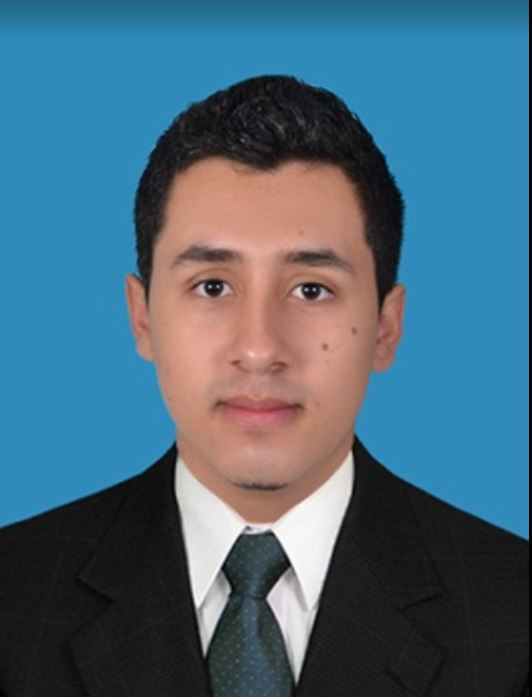
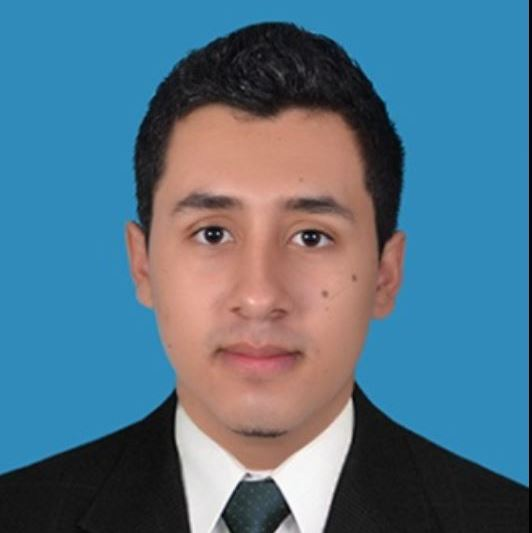
Actualización aporte de página Autores, @jeffer29

diff --git a/Autores/Autores.html b/Autores/Autores.html
@@ -45,7 +45,7 @@
 					</ul>
 					<!-- end menu desplegable -->
 				</li>
-				<li><a href="#">Autores</a></li>
+				<li><a href="../Autores/Autores.html">Autores</a></li>
 			</ul>
 			<!-- end menu -->
 			<div style="float: right" id="sfcsnub5b16dxtwp4l2g4crd2muelc6qsm4"></div>
@@ -59,59 +59,52 @@
 		<!-- end nav -->
 		<section class="contenedor">
 			<section>
-					<div class="micontenedor2">
-							<h3>Autores del Sitio Web</h3>
-							<img src="../img/ESTUDIANTE1.JPG" alt="" width="200" height="200">
-					
-							<article>
-									NOMBRE: Jaime Alexis Betancurt <br>
-									Código: <br>
-									Programa: <br>
-									Correo Electrónico: <br>
-									Usuario Skype:
-							</article>														
-					</div>
-					<br>
-					<div class="micontenedor2">
-					
-							<img src="../img/ESTUDIANTE2.JPG" alt="" width="200" height="200">
-					
-							<article>
-									NOMBRE: Jhon Anderson Muños <br>
-									Código: <br>
-									Programa: <br>
-									Correo Electrónico: <br>
-									Usuario Skype:
-							</article>														
-					</div>
-					<br>
-					<div id="jeffer">
-							<img src="../img/ESTUDIANTE3.jpg" alt="" width="200" height="200">
-					
-							<article>
-									NOMBRE: Jeffer Alain Ramirez Mora <br>
-									Código: <br>
-									Programa: <br>
-									Correo Electrónico: <br>
-									Usuario Skype:
-							</article>
-
-					</div>
-
-					<div class="micontenedor">
-						<div class="side1">
-							<h5>Título para esta imagen o video</h5>
-							imagen o video a incluir.
+				<article>
+					<h3>Autores del sitio web</h3>
+					<div class="micontenedorautor">
+						<div style="text-align: center;" class="datosautor">
+							<img class="imgRedonda" src="../img/ESTUDIANTE1.JPG">
 						</div>
-						<div class="side2">
-							<h5>Título para esta imagen o video</h5>
-							imagen o video a incluir.
+						<div class="datosautor">
+							<h4>Jaime Alexis Betancurt Londoño</h4>
+							<h6>Código: 10.188.438</h6>
+							<h6>Escuela de Ciencias Básicas Tecnologías e Ingenierías - ECBTI</h6>
+							<h6>Programa: Ingeniería de Sistemas</h6>
+							<h6>Correo: jabetancurtl@unadvirtual.edu.co</h6>
+							<h6>Skype: jaimebetal</h6>
+						</div>
+					</div>
+					<hr class="linea">
+					<div class="micontenedorautor">
+						<div style="text-align: center;" class="datosautor">
+							<img class="imgRedonda" src="../img/ESTUDIANTE2.JPG">
+						</div>
+						<div class="datosautor">
+							<h4>Jhon Anderson Muñoz</h4>
+							<h6>Código: </h6>
+							<h6>Escuela de Ciencias Básicas Tecnologías e Ingenierías - ECBTI</h6>
+							<h6>Programa: Ingeniería de Sistemas</h6>
+							<h6>Correo: andersonmunoz-97@hotmail.com</h6>
+							<h6>Skype: andersonmunoz-97</h6>
+						</div>
+					</div>
+					<hr class="linea">
+					<div class="micontenedorautor">
+						<div style="text-align: center;" class="datosautor">
+							<img class="imgRedonda" src="../img/ESTUDIANTE3.JPG">
+						</div>
+						<div class="datosautor">
+							<h4>Jeffer Alain Ramírez Mora</h4>
+							<h6>Código: </h6>
+							<h6>Escuela de Ciencias Básicas Tecnologías e Ingenierías - ECBTI</h6>
+							<h6>Programa: Ingeniería de Sistemas</h6>
+							<h6>Correo: </h6>
+							<h6>Skype: jefferalainramirez</h6>
 						</div>
 					</div>
 				</article>
 			</section>
-			<aside>
-
+			<aside style="height: 860px;">
 				<article class="tiwtter_main">
 					<a class="twitter-timeline" href="https://twitter.com/UniversidadUNAD?ref_src=twsrc%5Etfw">
 						Tweets by UniversidadUNAD</a>

diff --git a/Lecturas/Lecturas_gitHub.html b/Lecturas/Lecturas_gitHub.html
@@ -79,17 +79,23 @@
 							<h5>Como instalar GitHub</h5>
 							<iframe width="320" height="300" src="https://www.youtube.com/embed/IW28zJc7BN0" frameborder="0" allow="accelerometer; autoplay; encrypted-media; gyroscope; picture-in-picture" allowfullscreen></iframe>
 						</div>
-							<div class="side3">
+					</div>
+					<div class="micontenedor">
+							<div class="side1">
 								<h5>Caracteristicas del GitHub</h5>
 								Cada proyecto es una pagina web<br>
 								Funciona como una red social<br>
 								Herramienta util para grupo de programadores<br>
-								Gestor de proyectos 
+								Gestor de proyectos
 							</div>
-							<div class="side4">
+							<div class="side2">
 								<img src="../img/Caracteristica1.png" alt="" width="390" height="200">
-								<font size="1">https://asanzdiego.github.io/curso-git-github-markdown-2016/slides/export/git-github-markdown-resumen-reveal-slides.html</font>
-						</div>
+								<font size="1">
+									https://asanzdiego.github.io/curso-git-github-markdown-2016/slides/export/git-github-markdown-resumen-reveal-slides.html
+								</font>
+							</div>
+					</div>
+					<div class="micontenedor">
 						    <div class="side5">
 						    	<img src="../img/Caracteristica2.jpg" alt="" width="390" height="200">
 						    	<font size="1">https://bbvaopen4u.com/es/actualidad/por-que-github-es-el-mejor-amigo-de-los-desarrolladores-de-apis</font>

diff --git a/css/estilos.css b/css/estilos.css
@@ -21,6 +21,19 @@ header{
 img{
    border-radius: 5px;
 }
+
+.imgRedonda {
+   width:180px;
+   height:180px;
+   border-radius:160px;
+   border:5px solid  #005883;
+}
+
+.imgRedonda:hover {
+   border:5px solid #F47920;
+   transform: scale(1.03);
+}
+
 section{
    box-shadow: 2px 2px 10px rgba(0,0,0,.25);
    padding: 5px;
@@ -59,6 +72,24 @@ article{
    grid-row-gap: 10px; 
 }
 
+.micontenedorautor{
+	display: grid;
+   grid-template-columns: 1fr 2fr;
+   grid-column-gap: 10px;
+   grid-row-gap: 10px; 
+   margin-bottom: 25px;
+}
+
+.datosautor{
+   margin-bottom: 20px;
+   margin-top: 20px;
+}
+
+.linea{
+   height: 10px;
+   border-color:#F47920;
+   line-height: 4px;
+}
 
 
 nav{
@@ -265,14 +296,12 @@ footer{
       overflow: scroll;
   }
 
+  .twitter-timelinep {
+      background-color: #292F33;
+      border-radius: 5px;
+      overflow: scroll;
+   }
 
-
-
-
-
-
-
-
-
-
-  
+   .personal_twitter{
+      margin-top: 20px;;
+   }
